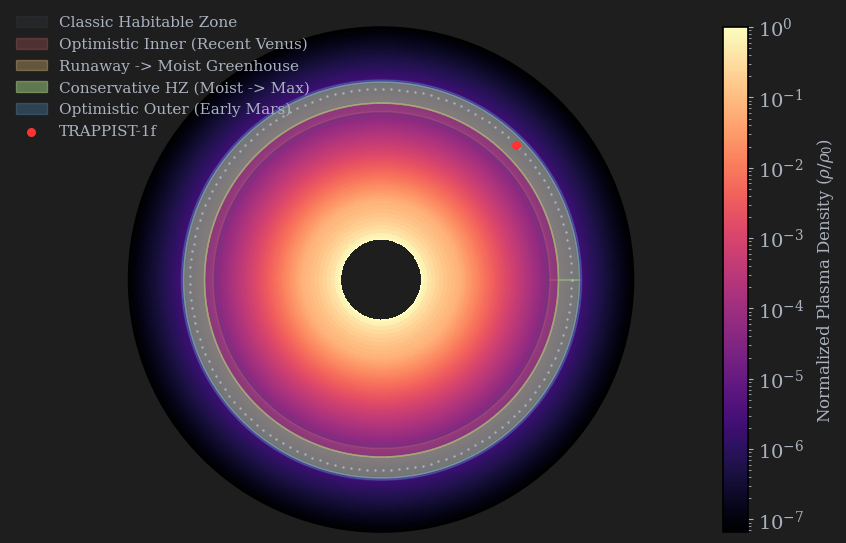
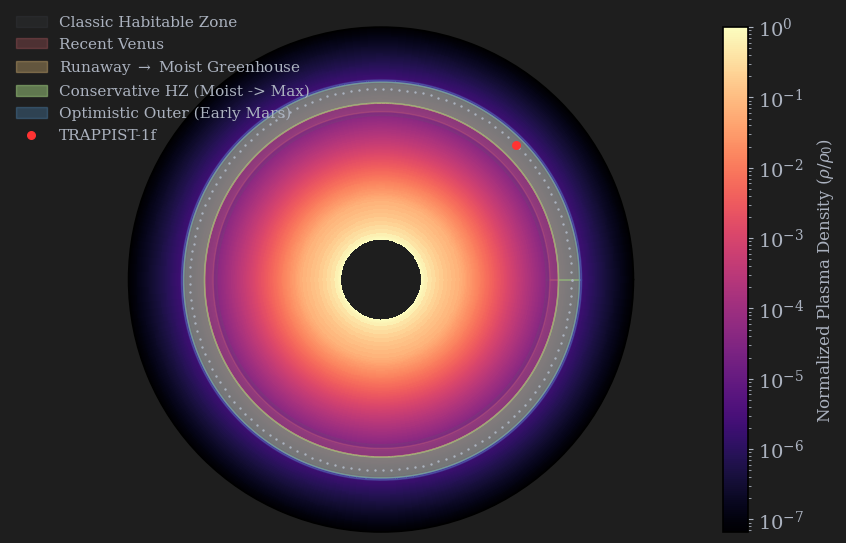
Refactor code structure for improved readability and maintainability

Changed region(s): [[0.0, 0.0589, 0.3688, 0.2652]]

diff --git a/src/astraeos_core/plot_curve.py b/src/astraeos_core/plot_curve.py
@@ -164,7 +164,7 @@ def plot_perfil_main(
         grid_linestyle="-",
         save_fig=True,
         file_format="png",
-        filename="clean_output",
+        filename=rf"VelocityProfile_{nome}_Damp{cte}_S{S_divergencia}_L0{L0}_dv0{deltav0}",
         vlines=[x_t, *x_ref],
         v_colors=["#CC79A7", *color_ref],
         v_linewidth=1.5,
@@ -609,7 +609,7 @@ def plot_habitability_radar(
         rings_out.append(d_int_rg)
         rings_cols.append("#E06C75")  # Vermelho Suave
         rings_alps.append(0.25)
-        rings_labs.append("Optimistic Inner (Recent Venus)")
+        rings_labs.append("Recent Venus")
 
     # 3. Transição Interna (Runaway Greenhouse -> Moist Greenhouse)
     if d_int_rg > 0 and d_int_mg > 0:
@@ -617,7 +617,7 @@ def plot_habitability_radar(
         rings_out.append(d_int_mg)
         rings_cols.append("#E5C07B")  # Dourado Térmico
         rings_alps.append(0.35)
-        rings_labs.append("Runaway -> Moist Greenhouse")
+        rings_labs.append(r"Runaway $\rightarrow$ Moist Greenhouse")
 
     # 4. HZ Conservadora Central (Moist Greenhouse -> Maximum Greenhouse)
     # Hierarquia Visual Alta (Maior opacidade, atrai a atenção imediata)
@@ -626,7 +626,7 @@ def plot_habitability_radar(
         rings_out.append(d_ext_mg)
         rings_cols.append("#98C379")  # Verde Destaque
         rings_alps.append(0.55)
-        rings_labs.append("Conservative HZ (Moist -> Max)")
+        rings_labs.append(r"Moist $\rightarrow$ Maximum Greenhouse")
 
     # 5. Otimista Externa (Maximum Greenhouse -> Early Mars)
     if d_ext_mg > 0 and d_ext_em > 0:
@@ -634,7 +634,7 @@ def plot_habitability_radar(
         rings_out.append(d_ext_em)
         rings_cols.append("#61AFEF")  # Azul Frio
         rings_alps.append(0.25)
-        rings_labs.append("Optimistic Outer (Early Mars)")
+        rings_labs.append("Early Mars")
 
     # ? --- Órbita e Posição do Exoplaneta ---
     rsun = 6.957e10